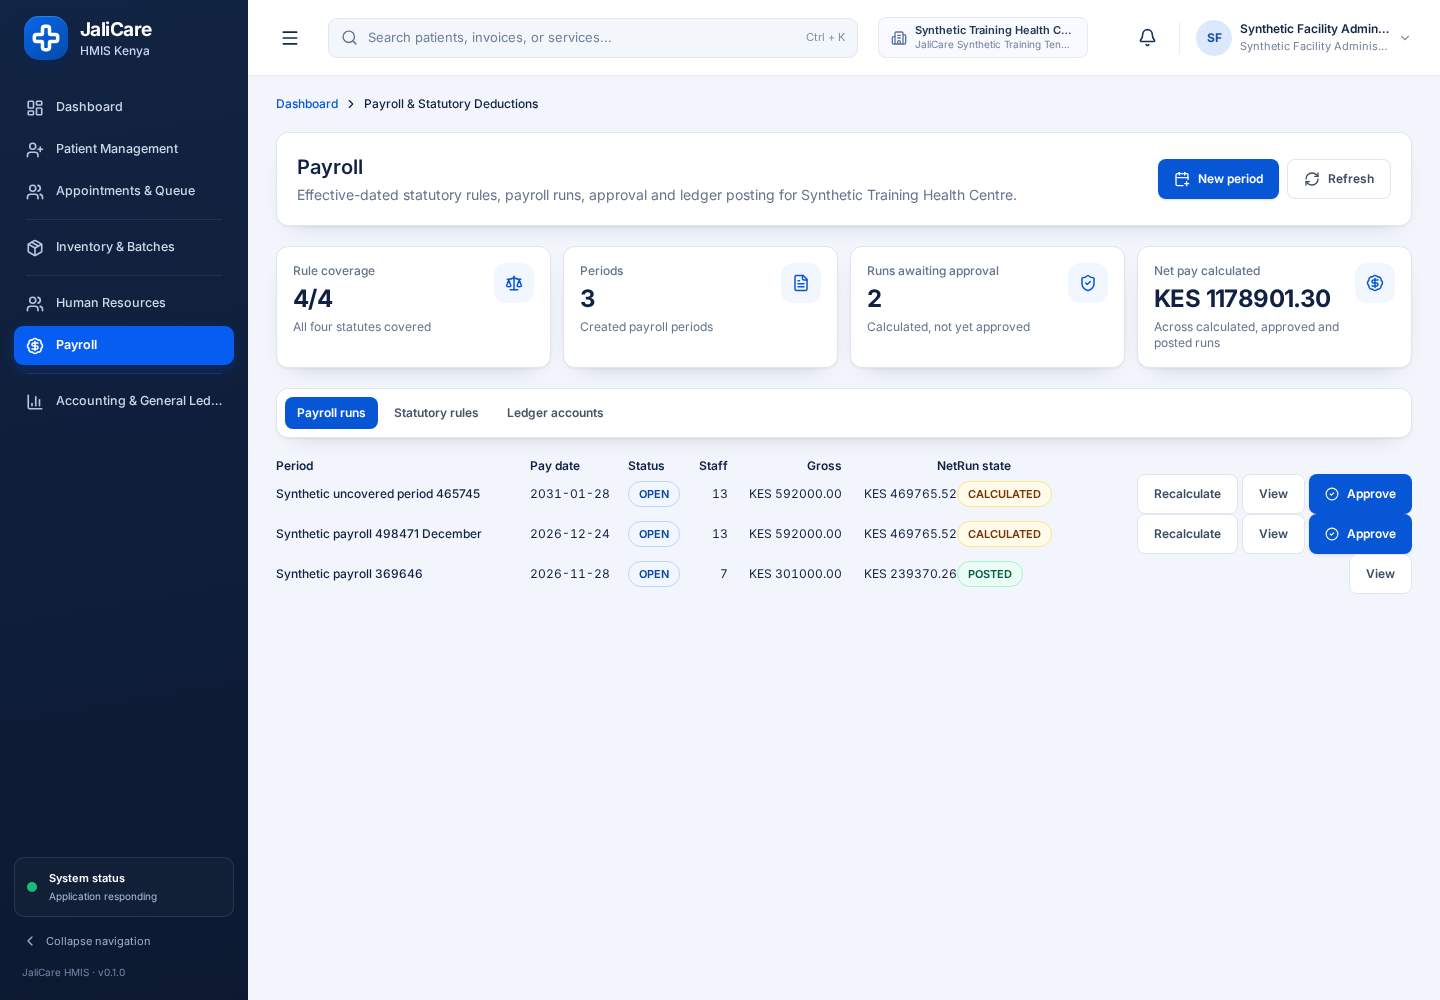
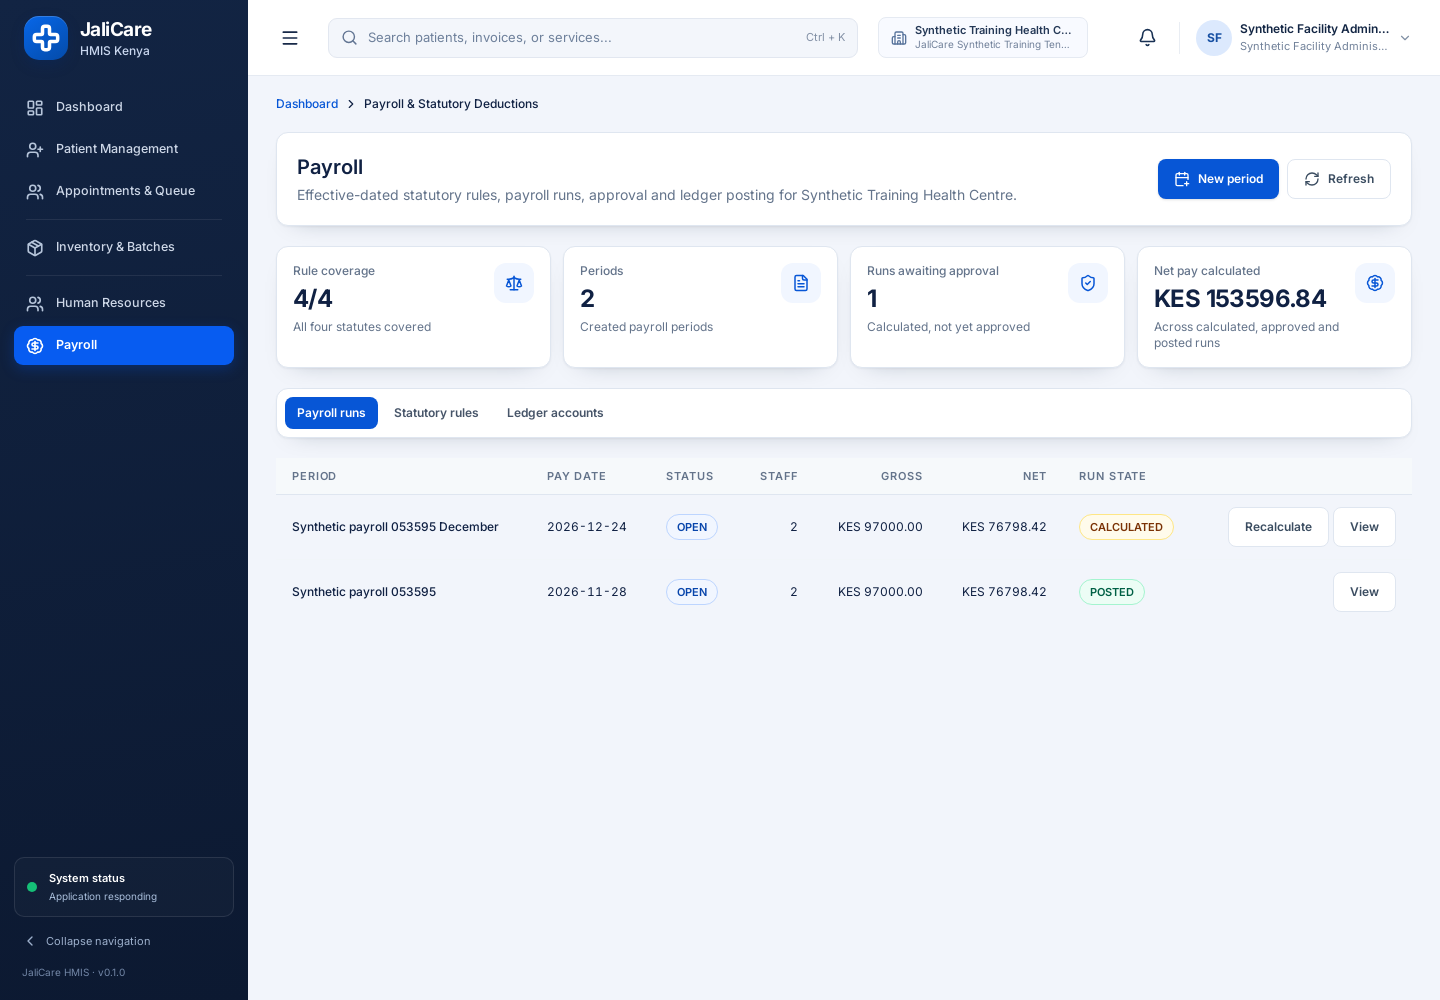
fix(ui): quiet table styling and payslip acceptance
The DataTable primitive had no cell padding or rules, so every module that
used it rendered jammed header text. DataTable now accepts the shared
`table-quiet` skin, which fixes the fixed-asset register, valuation report,
HR tabs and payroll runs at once; tfoot styling is added to match.

The workforce acceptance script clicked the first tbody button after opening
a run, which hit the row behind the modal instead of the payslip button. It
now targets the "Payslip" button by text, matching the earlier "View" fix.

Re-verified: fixed-asset browser 18/18, workforce journey 48/48,
workforce browser 24/24.

diff --git a/src/components/modules/WorkforceModule.tsx b/src/components/modules/WorkforceModule.tsx
@@ -411,7 +411,7 @@ export const WorkforceModule: React.FC = () => {
               }
             />
           ) : (
-            <DataTable>
+            <DataTable className="table-quiet">
               <thead>
                 <tr>
                   <th>Employee</th>
@@ -480,7 +480,7 @@ export const WorkforceModule: React.FC = () => {
                 description="Create departments before registering staff."
               />
             ) : (
-              <DataTable>
+              <DataTable className="table-quiet">
                 <thead>
                   <tr>
                     <th>Code</th>
@@ -528,7 +528,7 @@ export const WorkforceModule: React.FC = () => {
                 description="Add job titles and grades for this facility."
               />
             ) : (
-              <DataTable>
+              <DataTable className="table-quiet">
                 <thead>
                   <tr>
                     <th>Title</th>
@@ -577,7 +577,7 @@ export const WorkforceModule: React.FC = () => {
                 description="Register staff to record attendance."
               />
             ) : (
-              <DataTable>
+              <DataTable className="table-quiet">
                 <thead>
                   <tr>
                     <th>Employee</th>
@@ -704,7 +704,7 @@ export const WorkforceModule: React.FC = () => {
               }
             />
           ) : (
-            <DataTable>
+            <DataTable className="table-quiet">
               <thead>
                 <tr>
                   <th>Employee</th>

diff --git a/src/components/modules/PayrollModule.tsx b/src/components/modules/PayrollModule.tsx
@@ -271,7 +271,7 @@ export const PayrollModule: React.FC = () => {
               description="Create a period, record the statutory rules, then calculate the run."
             />
           ) : (
-            <DataTable>
+            <DataTable className="table-quiet">
               <thead>
                 <tr>
                   <th>Period</th>
@@ -417,7 +417,7 @@ export const PayrollModule: React.FC = () => {
               description="Record PAYE, NSSF, SHIF and Affordable Housing Levy versions with their authority source."
             />
           ) : (
-            <DataTable>
+            <DataTable className="table-quiet">
               <thead>
                 <tr>
                   <th>Statute</th>
@@ -620,7 +620,7 @@ function RunDetailView({
         ))}
       </dl>
 
-      <DataTable>
+      <DataTable className="table-quiet">
         <thead>
           <tr>
             <th>Employee</th>
